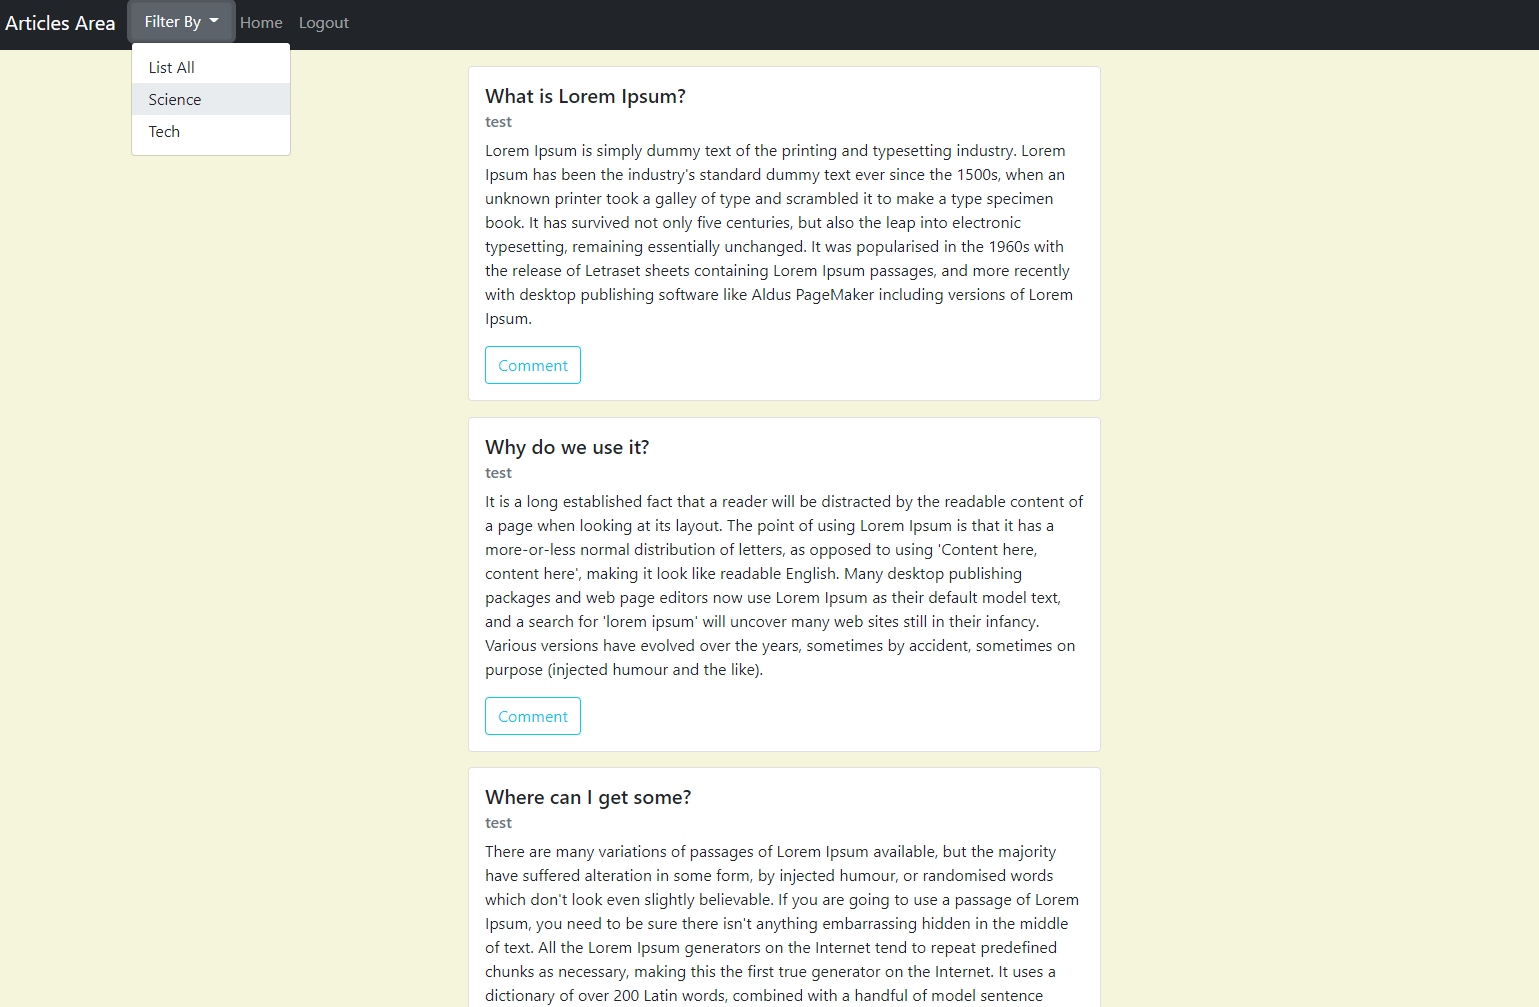
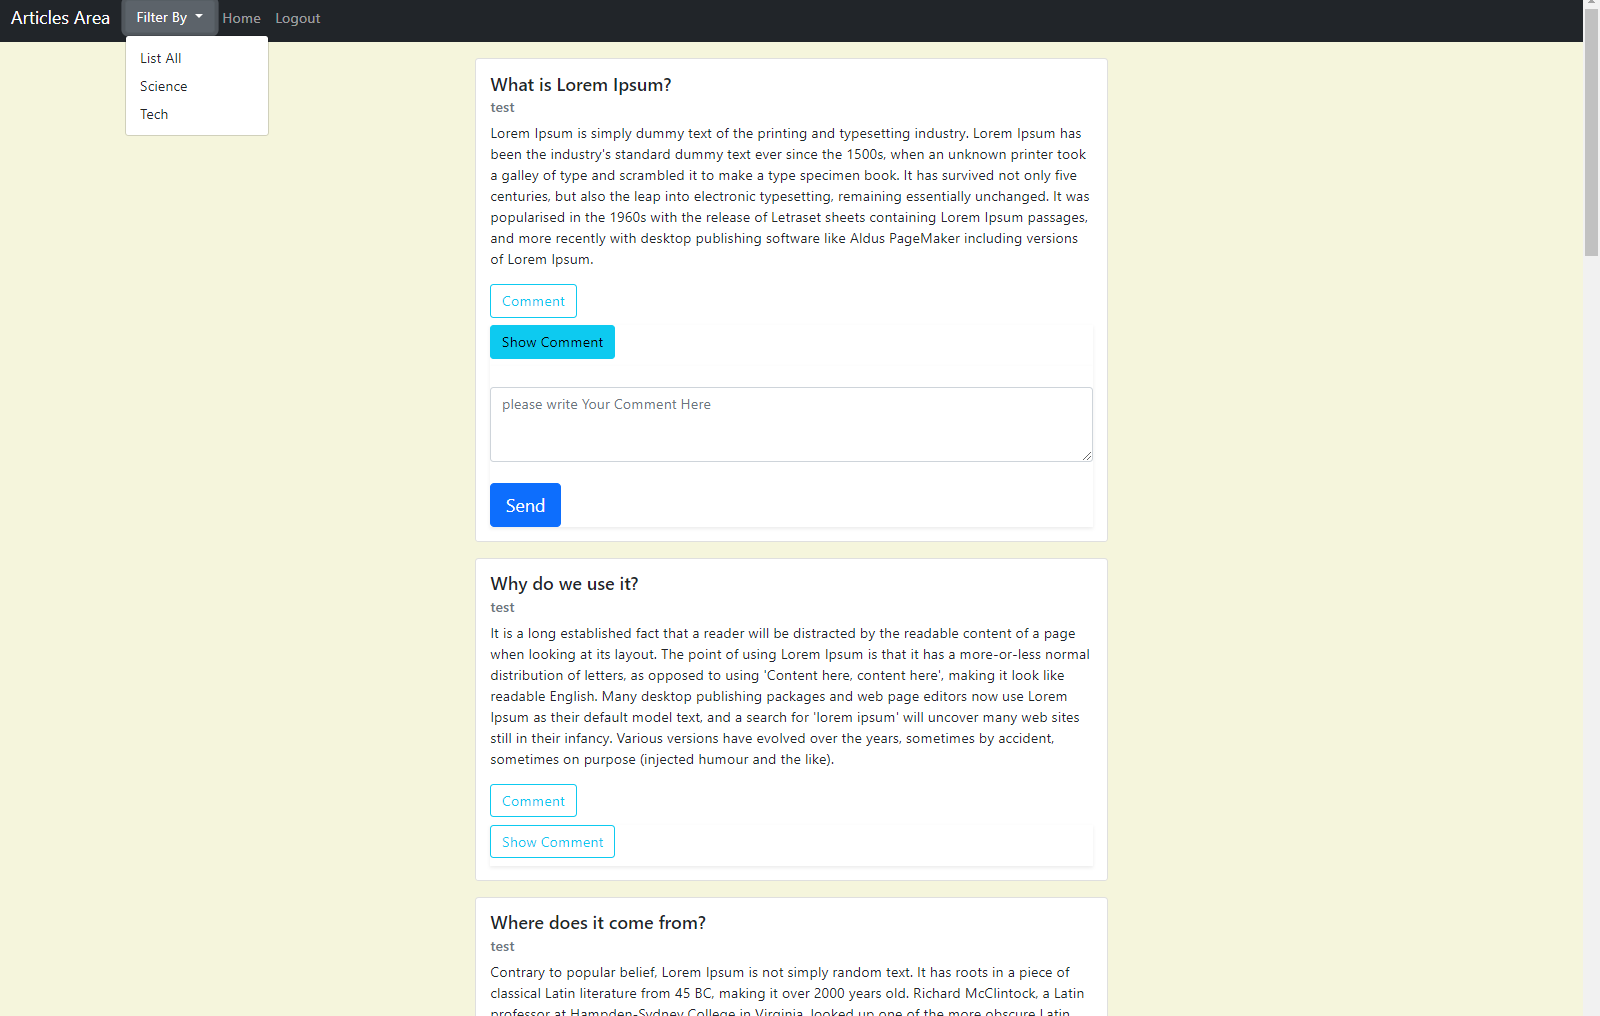
go

Changed region(s): [[0.0, 0.0, 1.0, 1.0]]

diff --git a/public/js/list.js b/public/js/list.js
@@ -52,6 +52,17 @@ function list() {
                 anc.innerHTML = "Comment"        ////////////////////
                 bigdiv.appendChild(anc);
 
+                var anc2 = document.createElement("a");
+                anc2.setAttribute("id", arr[i].id+"x");
+                anc2.setAttribute("class", "btn btn-outline-info");
+                anc2.setAttribute("data-bs-toggle", "collapse");
+                anc2.setAttribute("href", "#collapseExample" + i +"x");
+                anc2.setAttribute("role", "button");
+                anc2.setAttribute("aria-expanded", "false");
+                anc2.setAttribute("aria-controls", "collapseExample" + i +"x");
+                anc2.innerHTML = "Show Comment"        ////////////////////
+                bigdiv.appendChild(anc2);
+
                 var smalldiv = document.createElement("div");
                 smalldiv.setAttribute("class", "collapse");
                 smalldiv.setAttribute("id", "collapseExample" + i);

diff --git a/public/css/main.css b/public/css/main.css
@@ -5,4 +5,9 @@ html,body{
     height: 100%;
     font-family: 'Numans', sans-serif;
     }
-a{ margin-right: 35px; }
+a{
+    margin-right: 35px;
+
+ }
+
+

diff --git a/public/css/list.css b/public/css/list.css
@@ -1,0 +1,1 @@
+.btn-outline-info{ margin-bottom: 8px;}

diff --git a/resources/views/visitor.blade.php b/resources/views/visitor.blade.php
@@ -3,9 +3,12 @@
     <link href="https://cdn.jsdelivr.net/npm/bootstrap@5.0.2/dist/css/bootstrap.min.css" rel="stylesheet"integrity="sha384-EVSTQN3/azprG1Anm3QDgpJLIm9Nao0Yz1ztcQTwFspd3yD65VohhpuuCOmLASjC" crossorigin="anonymous">
     <script src="https://cdn.jsdelivr.net/npm/bootstrap@5.0.2/dist/js/bootstrap.bundle.min.js"integrity="sha384-MrcW6ZMFYlzcLA8Nl+NtUVF0sA7MsXsP1UyJoMp4YLEuNSfAP+JcXn/tWtIaxVXM" crossorigin="anonymous"></script>
     <link rel="stylesheet" href={{asset('css/article.css')}}>
+    <link rel="stylesheet" href={{asset('css/list.css')}}>
+
     <script src={{'js/logout.js' }}></script>
     <script src={{'js/addcomment.js' }}></script>
-    <script src={{'js/list.js' }}></script>
+    <script src={{'js/list.js' }}> </script>
+    <link href={{'css/list.css' }}>
 
 
 </head><body>

diff --git a/app/Http/Controllers/CommentsController.php b/app/Http/Controllers/CommentsController.php
@@ -20,4 +20,17 @@ class CommentsController extends Controller
         return response()->json(['success'=>$comments]);
     }
 
+    public function list(Request $req)
+    {
+       $arr = [];
+       $comments =  Comment::all();
+
+       for ($i = 0; $i < sizeof($comments); $i++)
+       {
+           $arr[] = $comments[$i];
+       }
+
+       return  $arr;
+
+    }
 }

diff --git a/routes/api.php b/routes/api.php
@@ -38,6 +38,7 @@ Route::group(['middleware' => 'api', 'prefix' => 'auth'],function ($router)
     Route::post('article',ArticleController::class.'@control');
     Route::get('list',ArticleController::class.'@list');
     Route::post('addcomment',CommentsController::class.'@control');
+    Route::post('listcomments',CommentsController::class.'@list');
 
  });
 

diff --git a/app/Http/Controllers/ArticleController.php b/app/Http/Controllers/ArticleController.php
@@ -36,7 +36,7 @@ class ArticleController extends Controller
     {
         $all = Article::all();
         $arr = [];
-        // dd($all);
+
         for ($i = 0; $i < sizeof($all); $i++) {
             $arr[] = $all[$i];
         }
